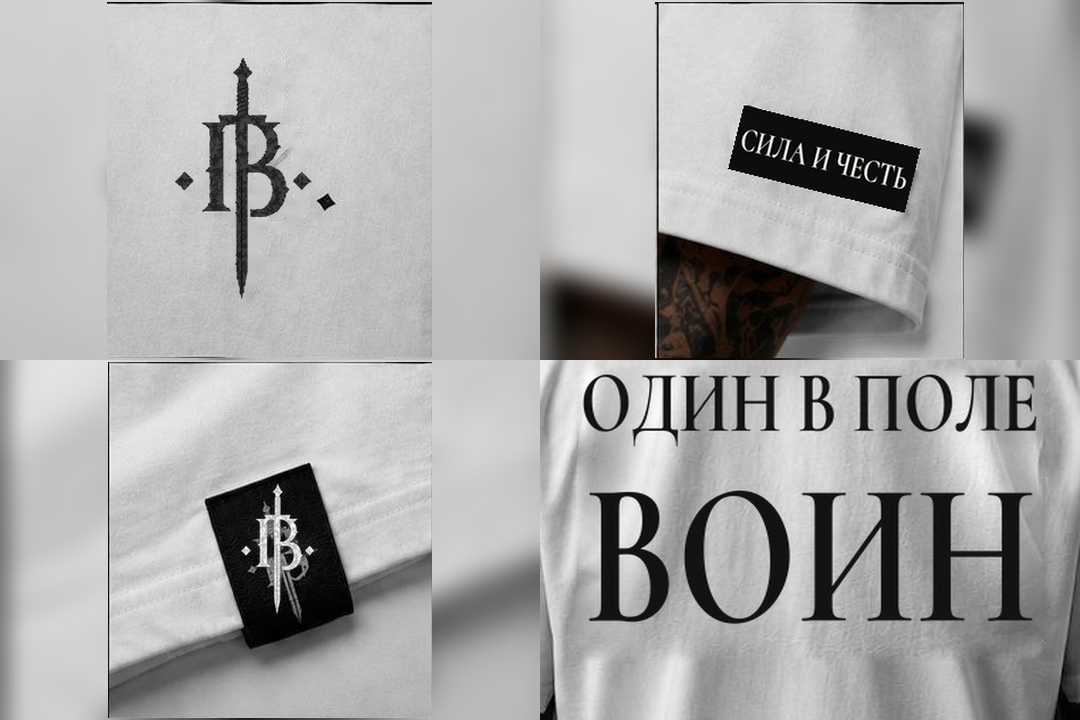
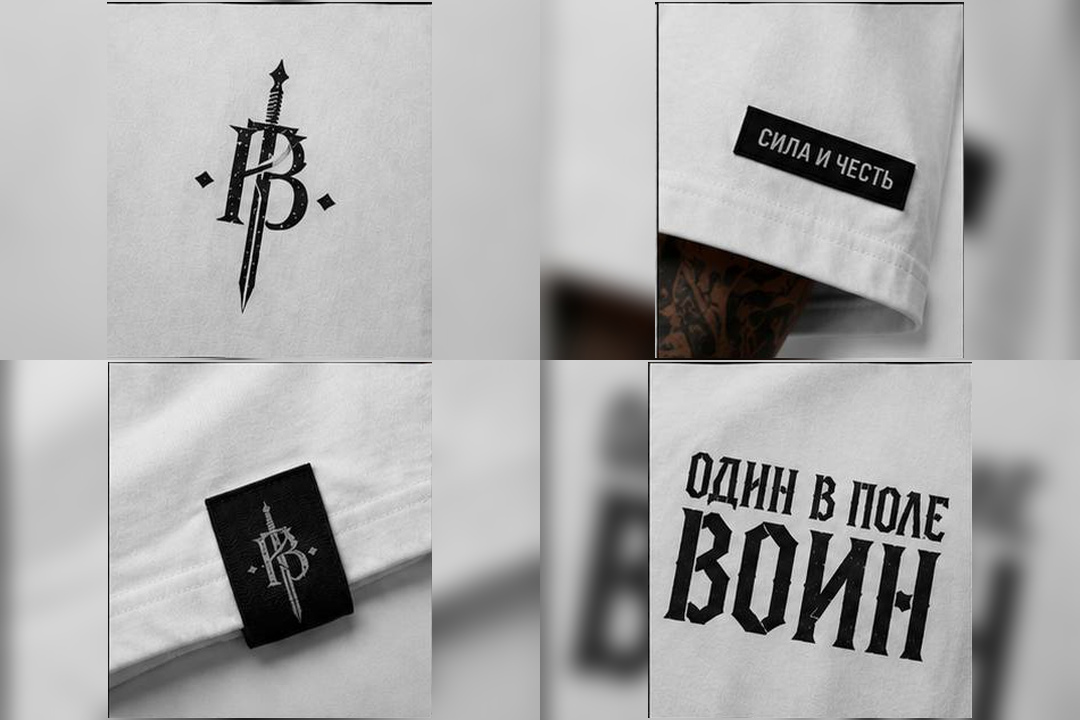
fix(media): restore authentic gothic calligraphy print for odin-v-pole-voin

diff --git a/tools/fix_product_cards.py b/tools/fix_product_cards.py
@@ -145,32 +145,71 @@ def fix_tee_vzglyad():
 
 def fix_tee_odin():
     print("Fixing tee-odin-v-pole-voin...")
-    # 1. Detail image bottom right: clean white cotton back text without grey inpaint box
-    detail = Image.open(DROP / "odin-voin-detail-v3.jpg")
-    back_clean = Image.open(DROP / "odin-voin-back-v3.jpg")
-    crop_back = back_clean.crop((160, 150, 540, 420)).resize((540, 360), Image.Resampling.LANCZOS)
-    detail.paste(crop_back, (540, 360))
-    detail.save(DROP / "odin-voin-detail-v3.jpg", quality=96)
-    print("  -> Updated odin-voin-detail-v3.jpg")
+    import sys
+    sys.path.insert(0, str(ROOT / "tools"))
+    from refine_white_spin import concrete_plate, garment_cutout, composite
+    from PIL import ImageOps, ImageFilter
 
-    # 2. Back spin frame 05-v8: seamless feathered blend of back typography
-    crop_back_text = back_clean.crop((170, 150, 530, 420)).resize((260, 195), Image.Resampling.LANCZOS)
-    h, w = 195, 260
-    mask = np.ones((h, w), dtype=np.float32)
-    feather = 15
-    for i in range(feather):
-        mask[i, :] = np.minimum(mask[i, :], i / feather)
-        mask[h - 1 - i, :] = np.minimum(mask[h - 1 - i, :], i / feather)
-        mask[:, i] = np.minimum(mask[:, i], i / feather)
-        mask[:, w - 1 - i] = np.minimum(mask[:, w - 1 - i], i / feather)
-    mask = cv2.GaussianBlur(mask, (5, 5), 1.0)
-    crop_rgba = crop_back_text.convert("RGBA")
-    crop_rgba.putalpha(Image.fromarray((mask * 255).astype(np.uint8)))
+    src_path = DROP / "odin-v-pole-voin.jpg"
+    src = Image.open(src_path)
 
-    odin_05 = Image.open(SPIN / "odin-voin-05-v8.jpg").convert("RGBA")
-    odin_05.alpha_composite(crop_rgba, (410, 175))
-    odin_05.convert("RGB").save(SPIN / "odin-voin-05-v8.jpg", quality=96)
-    print("  -> Updated odin-voin-05-v8.jpg")
+    # 1. Authentic flatlay back: odin-voin-back-v3.jpg from original photo 7
+    back_orig = src.crop((700, 0, 1402, 700)).convert("RGB")
+    back_orig.save(DROP / "odin-voin-back-v3.jpg", quality=96, subsampling=0)
+    print("  -> Updated odin-voin-back-v3.jpg with authentic gothic print")
+
+    # 2. Authentic board: odin-v-pole-voin-v3.jpg
+    v3_board = Image.open(DROP / "odin-v-pole-voin-v3.jpg")
+    v3_board.paste(back_orig, (700, 0))
+    cell_3 = src.crop((843, 700, 1128, 1013)).convert("RGB")
+    v3_board.paste(cell_3, (843, 700))
+    v3_board.save(DROP / "odin-v-pole-voin-v3.jpg", quality=96, subsampling=0)
+    print("  -> Updated odin-v-pole-voin-v3.jpg with authentic gothic print")
+
+    # 3. Authentic detail: odin-voin-detail-v3.jpg
+    detail = Image.new("RGB", (1080, 720), (222, 222, 218))
+    detail_cells = [
+        (0, 700, 286, 1013),
+        (286, 700, 558, 1013),
+        (558, 700, 843, 1013),
+        (843, 700, 1128, 1013),
+    ]
+    for index, bounds in enumerate(detail_cells):
+        crop = src.crop(bounds).convert("RGB")
+        fitted = ImageOps.contain(crop, (536, 356), Image.Resampling.LANCZOS)
+        cell = ImageOps.fit(crop, (540, 360), Image.Resampling.LANCZOS).filter(ImageFilter.GaussianBlur(12))
+        cell.paste(fitted, ((540 - fitted.width) // 2, (360 - fitted.height) // 2))
+        detail.paste(cell, ((index % 2) * 540, (index // 2) * 360))
+    detail.save(DROP / "odin-voin-detail-v3.jpg", quality=96, subsampling=0)
+    print("  -> Updated odin-voin-detail-v3.jpg with authentic gothic calligraphy macro")
+
+    # 4. Spin frames: 04, 05, 06 from original video frames (authentic gothic calligraphy)
+    plate = concrete_plate()
+    originals = ROOT / "approval/brand-logo-review-2026-10-25-v2/white-sources"
+    symmetric_outline = [
+        (250, 260), (470, 260), (560, 310), (630, 400),
+        (720, 520), (720, 1150), (0, 1150), (0, 520),
+        (90, 400), (160, 310),
+    ]
+
+    cutout_04 = garment_cutout(originals / "odin-voin-04-original.jpg")
+    frame_04 = composite(plate, cutout_04)
+    frame_04.save(SPIN / "odin-voin-04-v8.jpg", quality=95, subsampling=0, optimize=True)
+
+    cutout_05 = garment_cutout(originals / "odin-voin-05-original.jpg", allowed_polygon=symmetric_outline)
+    frame_05 = composite(
+        plate,
+        cutout_05,
+        width_scale=1.14,
+        garment_height=452,
+        center_x=535,
+    )
+    frame_05.save(SPIN / "odin-voin-05-v8.jpg", quality=95, subsampling=0, optimize=True)
+
+    cutout_06 = garment_cutout(originals / "odin-voin-06-original.jpg")
+    frame_06 = composite(plate, cutout_06)
+    frame_06.save(SPIN / "odin-voin-06-v8.jpg", quality=95, subsampling=0, optimize=True)
+    print("  -> Updated odin-voin spin frames 04, 05, 06 with authentic gothic print")
 
 
 if __name__ == "__main__":
